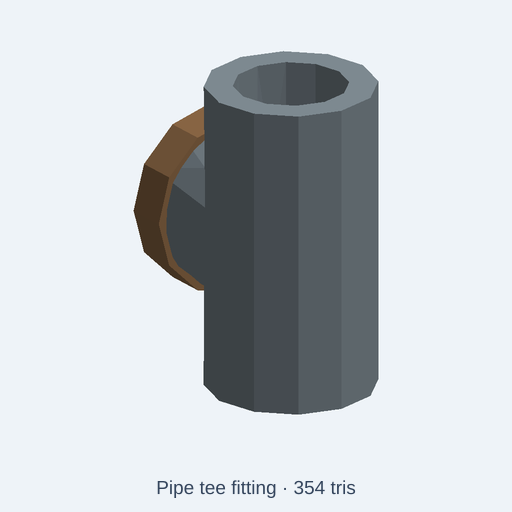
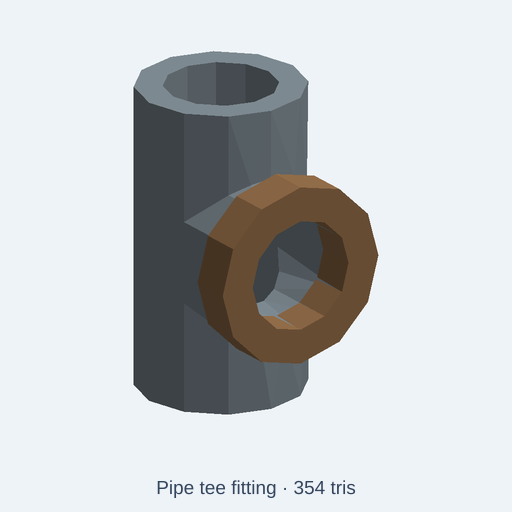
fix(catalog): face tee outlet toward its canonical preview camera

Changed region(s): [[0.25, 0.0938, 0.75, 0.8125]]

diff --git a/tests/integration/catalog/pipeTeeFidelity.test.ts b/tests/integration/catalog/pipeTeeFidelity.test.ts
@@ -31,12 +31,12 @@ function verify(tris: SoftTriangle[],scale: number) {
     const junction: V=[x*scale,0.022*scale,0];
     expect(intersects(tris,junction,[0,1,0]),'upper run port blocked').toBe(false);
     expect(intersects(tris,junction,[0,-1,0]),'lower run port blocked').toBe(false);
-    expect(intersects(tris,junction,[0,0,-1]),'side branch blocked').toBe(false);
-    expect(intersects(tris,junction,[0,0,1]),'fourth port exists: this is a cross, not a tee').toBe(true);
+    expect(intersects(tris,junction,[0,0,1]),'side branch blocked').toBe(false);
+    expect(intersects(tris,junction,[0,0,-1]),'fourth port exists: this is a cross, not a tee').toBe(true);
   }
   const vertices=tris.flatMap(t=>t.v);
-  expect(Math.max(...vertices.map(p=>p[2]))).toBeCloseTo(0.012*scale,5);
-  expect(Math.min(...vertices.map(p=>p[2]))).toBeCloseTo(-0.019*scale,5);
+  expect(Math.max(...vertices.map(p=>p[2]))).toBeCloseTo(0.019*scale,5);
+  expect(Math.min(...vertices.map(p=>p[2]))).toBeCloseTo(-0.012*scale,5);
   expect(Math.min(...vertices.map(p=>p[1]))).toBeCloseTo(0,6);
 }
 beforeAll(async()=>{await initOcct();},30000);

diff --git a/catalog/kits/standard-components/pipe-tee.kcad.ts b/catalog/kits/standard-components/pipe-tee.kcad.ts
@@ -29,15 +29,16 @@ const a = assembly('pipe-tee');
 // bore and must not pierce the opposite wall.
 const r=12*s;
 const alongZ=cylinder(44*s,r,16);
-const alongY=cylinder(18*s,r,16).rotateX(90).translate(0,18*s,22*s);
+// Point the single outlet toward the canonical camera so its bore remains visible.
+const alongY=cylinder(18*s,r,16).rotateX(90).translate(0,0,22*s);
 let tee=alongZ.union(alongY);
 tee=tee.subtract(cylinder(46*s,8*s,16).translate(0,0,-s));
-tee=tee.subtract(cylinder(20*s,8*s,16).rotateX(90).translate(0,19*s,22*s));
+tee=tee.subtract(cylinder(20*s,8*s,16).rotateX(90).translate(0,s,22*s));
 a.part('continuous-tee-fitting',tee.color(steel));
 // A removable bronze coupling ring at the branch outlet is a separate part,
 // not a decorative colour stripe across the flow passage.
 const collar=cylinder(6*s,13*s,16)
   .subtract(cylinder(8*s,8*s,16).translate(0,0,-s))
-  .rotateX(90).translate(0,19*s,22*s);
+  .rotateX(90).translate(0,-13*s,22*s);
 a.part('branch-outlet-collar',collar.color(bronze));
 return a.model();
